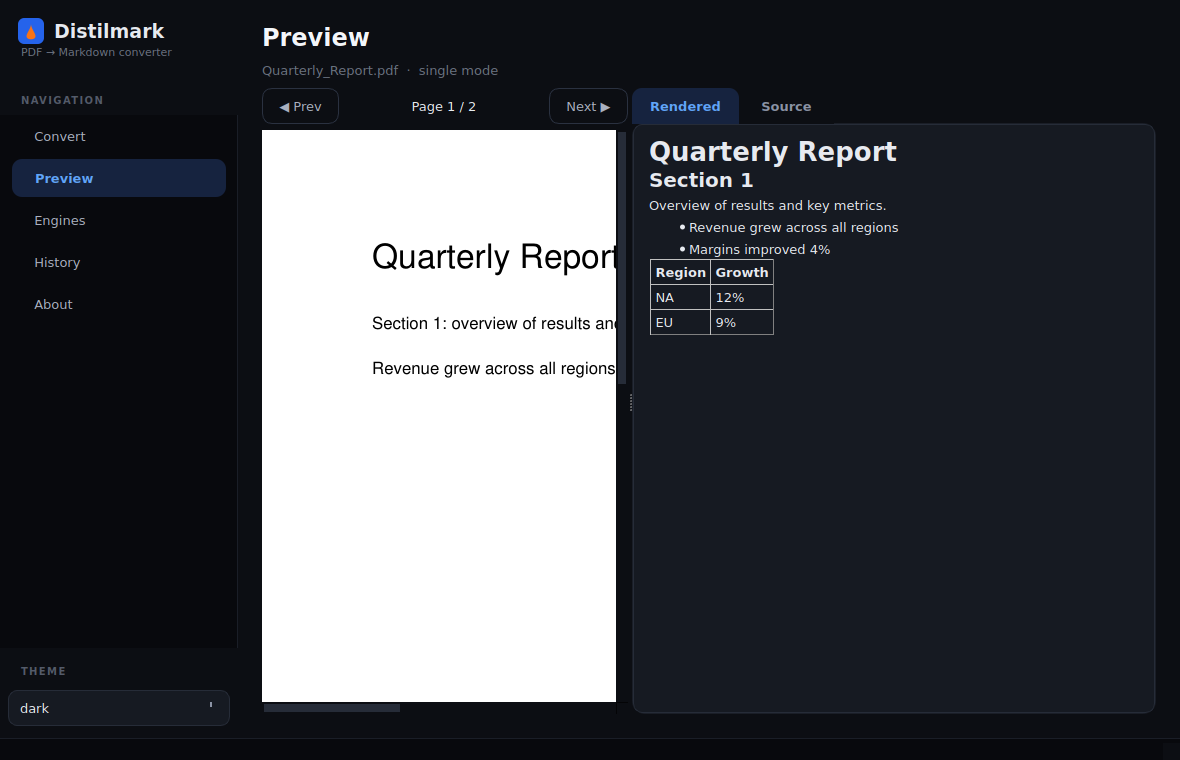
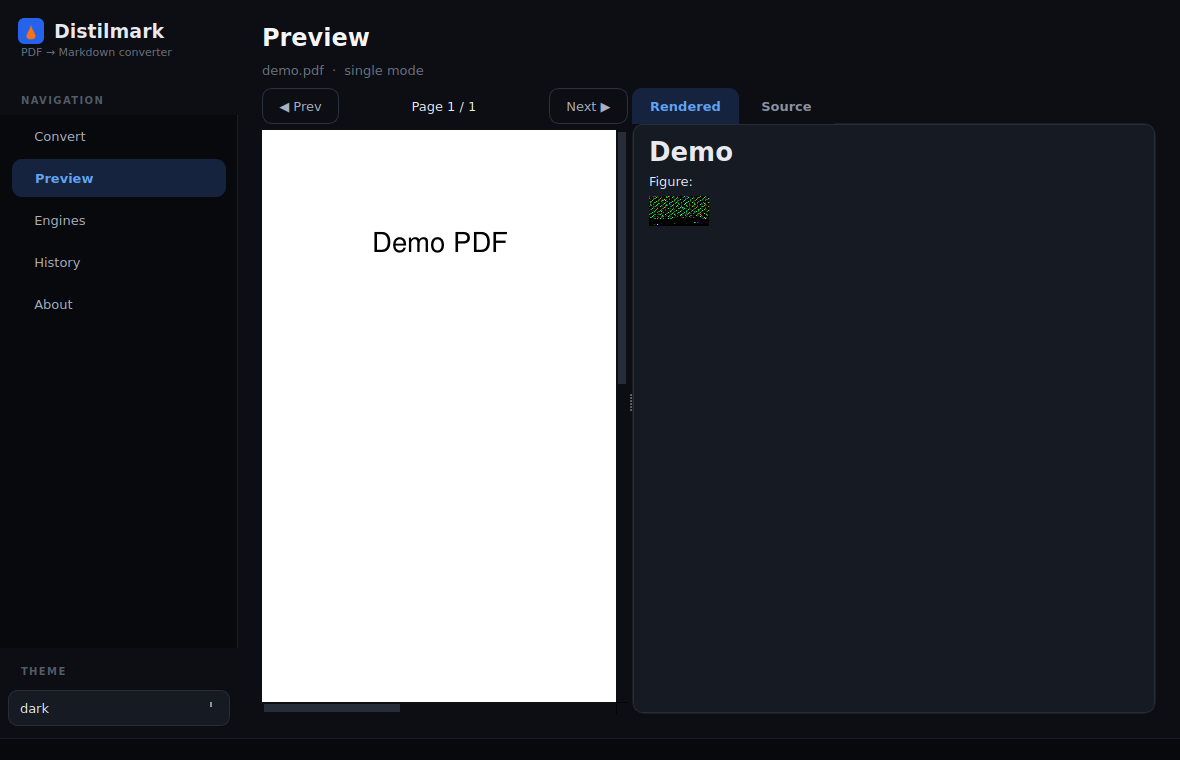
Preview images render, Tesseract install help, advanced-option tooltips
• Preview pane: QTextBrowser was rendering broken-icon placeholders for
  relative image paths (e.g. ./name_images/page1_img1.png) because no
  base URL was set. Centralise rendering through PreviewPage._render_md,
  which sets searchPaths + document baseUrl to the output directory
  before calling setMarkdown — images now display correctly in single
  and compare modes.
• Advanced options: add an "Install Tesseract ↗" button next to the OCR
  checkbox. Clicking it opens a clear, platform-specific guide (Windows
  / macOS / Linux) with one-line install commands and a link to the
  official docs.
• Hover-tooltips on every option in Advanced and the basic Convert
  options (engine, image extraction, page separator, page range,
  estimate, cancel, convert, OCR, OCR language, post-processing flags,
  table extraction + strategies + snap tolerance, LLM concurrency).
• Refresh README screenshots to show the new advanced panel.

https://claude.ai/code/session_01Czo3Yd5iE3p8BnoqPHYmv6

diff --git a/distilmark/app.py b/distilmark/app.py
@@ -6,7 +6,7 @@ import sys
 import traceback
 from pathlib import Path
 
-from PyQt6.QtCore import Qt, QThread, pyqtSignal, QSize
+from PyQt6.QtCore import Qt, QThread, pyqtSignal, QSize, QUrl
 from PyQt6.QtGui import QIcon, QFont, QAction, QPixmap, QPainter, QColor
 from PyQt6.QtWidgets import (
     QApplication,
@@ -359,6 +359,10 @@ class ConvertPage(QWidget):
         self.engine_combo.addItem("OpenAI", "openai")
         self.engine_combo.addItem("Anthropic Claude", "anthropic")
         self.engine_combo.addItem("OpenAI-compatible — Groq · OpenRouter · LM Studio", "openai_compatible")
+        self.engine_combo.setToolTip(
+            "Choose the back-end that turns your PDF into Markdown.\n"
+            "Offline engines run locally and are free; hosted engines call an API."
+        )
         cur = self.cfg.get("engine", "native")
         for i in range(self.engine_combo.count()):
             if self.engine_combo.itemData(i) == cur:
@@ -366,12 +370,21 @@ class ConvertPage(QWidget):
                 break
         opts_layout.addRow("Engine:", self.engine_combo)
 
-        self.images_cb = QCheckBox("Extract embedded images (native engine)")
+        self.images_cb = QCheckBox("Extract embedded images")
         self.images_cb.setChecked(self.cfg.get("include_images", True))
+        self.images_cb.setToolTip(
+            "Save embedded images from the PDF into a sibling folder named "
+            "<stem>_images/ and reference them with relative paths in the "
+            "Markdown, so previews work in VS Code, Obsidian, Typora, etc."
+        )
         opts_layout.addRow("", self.images_cb)
 
         self.sep_cb = QCheckBox("Insert --- between pages")
         self.sep_cb.setChecked(self.cfg.get("page_separator", True))
+        self.sep_cb.setToolTip(
+            "Insert a Markdown horizontal-rule (---) between pages, making "
+            "page boundaries easy to spot in the output."
+        )
         opts_layout.addRow("", self.sep_cb)
 
         # Page range row
@@ -379,9 +392,16 @@ class ConvertPage(QWidget):
         self.range_from = QLineEdit(str(self.cfg.get("page_range_from", "")))
         self.range_from.setPlaceholderText("first")
         self.range_from.setFixedWidth(70)
+        self.range_from.setToolTip(
+            "First page to convert (1-based). Leave blank to start from page 1."
+        )
         self.range_to = QLineEdit(str(self.cfg.get("page_range_to", "")))
         self.range_to.setPlaceholderText("last")
         self.range_to.setFixedWidth(70)
+        self.range_to.setToolTip(
+            "Last page to convert (1-based, inclusive). Leave blank to go to the "
+            "end of the document."
+        )
         range_row.addWidget(QLabel("From"))
         range_row.addWidget(self.range_from)
         range_row.addWidget(QLabel("to"))
@@ -416,16 +436,26 @@ class ConvertPage(QWidget):
         self.estimate_btn = QPushButton("Estimate cost")
         self.estimate_btn.setObjectName("Ghost")
         self.estimate_btn.setCursor(Qt.CursorShape.PointingHandCursor)
+        self.estimate_btn.setToolTip(
+            "Estimate the rough USD cost for hosted LLM engines "
+            "(OpenAI, Anthropic, OpenAI-compatible) before converting. "
+            "Free for offline engines."
+        )
         self.estimate_btn.clicked.connect(self._estimate_cost)
         self.cancel_conv_btn = QPushButton("Cancel")
         self.cancel_conv_btn.setObjectName("Danger")
         self.cancel_conv_btn.setEnabled(False)
         self.cancel_conv_btn.setCursor(Qt.CursorShape.PointingHandCursor)
+        self.cancel_conv_btn.setToolTip(
+            "Stop the current batch. The page in progress finishes first, "
+            "remaining queued files are skipped."
+        )
         self.cancel_conv_btn.clicked.connect(self._cancel_conversion)
         self.convert_btn = QPushButton("Convert  →")
         self.convert_btn.setObjectName("Primary")
         self.convert_btn.setMinimumHeight(40)
         self.convert_btn.setCursor(Qt.CursorShape.PointingHandCursor)
+        self.convert_btn.setToolTip("Start converting every PDF in the queue.")
         self.convert_btn.clicked.connect(self.start_conversion)
         action_row.addWidget(self.estimate_btn)
         action_row.addStretch()
@@ -440,51 +470,154 @@ class ConvertPage(QWidget):
         box = QGroupBox("")
         form = QFormLayout(box)
 
-        # OCR
-        self.ocr_cb = QCheckBox("Enable OCR fallback for scanned pages (needs Tesseract)")
+        # ---- OCR ----
+        self.ocr_cb = QCheckBox("Enable OCR fallback for scanned pages")
         self.ocr_cb.setChecked(self.cfg.get("ocr_enabled", False))
-        form.addRow("OCR:", self.ocr_cb)
+        self.ocr_cb.setToolTip(
+            "When a page has no extractable text (a scanned image or a photo of a "
+            "document), run it through Tesseract OCR to recover the text.\n\n"
+            "Requires Tesseract installed on your system — use the\n"
+            "“Install Tesseract” button on the right for guidance."
+        )
+        ocr_row = QHBoxLayout()
+        ocr_row.addWidget(self.ocr_cb, 1)
+        self.tesseract_btn = QPushButton("Install Tesseract ↗")
+        self.tesseract_btn.setObjectName("Ghost")
+        self.tesseract_btn.setCursor(Qt.CursorShape.PointingHandCursor)
+        self.tesseract_btn.setToolTip(
+            "Open the Tesseract installation guide in your browser."
+        )
+        self.tesseract_btn.clicked.connect(self._show_tesseract_help)
+        ocr_row.addWidget(self.tesseract_btn)
+        form.addRow("OCR:", ocr_row)
+
         self.ocr_lang = QLineEdit(self.cfg.get("ocr_language", "eng"))
         self.ocr_lang.setPlaceholderText("eng, fas, eng+fas, …")
-        self.ocr_lang.setFixedWidth(140)
+        self.ocr_lang.setFixedWidth(180)
+        self.ocr_lang.setToolTip(
+            "Tesseract language code(s). Examples:\n"
+            "  eng        — English (default)\n"
+            "  fas        — Persian / Farsi\n"
+            "  eng+fas    — both, combined\n"
+            "  deu, jpn, chi_sim, ara, rus  — other languages\n\n"
+            "Each language needs its data pack installed alongside Tesseract."
+        )
         form.addRow("OCR language:", self.ocr_lang)
 
-        # Post-processing
+        # ---- Post-processing ----
         self.pp_hyphen_cb = QCheckBox("Merge hyphenated line breaks")
         self.pp_hyphen_cb.setChecked(self.cfg.get("pp_merge_hyphens", False))
+        self.pp_hyphen_cb.setToolTip(
+            "Re-join words split across line breaks with a hyphen.\n"
+            "Example:  “exam-\\nple” → “example”.\n"
+            "Useful for two-column papers and PDFs with tight line wrapping."
+        )
         form.addRow("Clean-up:", self.pp_hyphen_cb)
+
         self.pp_blanks_cb = QCheckBox("Collapse multiple blank lines")
         self.pp_blanks_cb.setChecked(self.cfg.get("pp_collapse_blanks", False))
+        self.pp_blanks_cb.setToolTip(
+            "Replace runs of 3+ consecutive blank lines with a single blank line, "
+            "for a tidier Markdown output."
+        )
         form.addRow("", self.pp_blanks_cb)
+
         self.pp_hf_cb = QCheckBox("Strip repeating headers / footers / page numbers")
         self.pp_hf_cb.setChecked(self.cfg.get("pp_strip_headers_footers", False))
+        self.pp_hf_cb.setToolTip(
+            "Detect the first/last line of each page; when the same text repeats "
+            "across most pages (a running header, footer, or page number), drop "
+            "it from the output. Needs at least 3 pages."
+        )
         form.addRow("", self.pp_hf_cb)
 
-        # pdfplumber table tuning
+        # ---- pdfplumber table tuning ----
         self.tables_cb = QCheckBox("Extract tables (pdfplumber engine)")
         self.tables_cb.setChecked(self.cfg.get("plumber_tables_enabled", True))
+        self.tables_cb.setToolTip(
+            "When using the pdfplumber engine, detect tables on each page and "
+            "convert them to GitHub-flavored Markdown tables.\n"
+            "Disable if pdfplumber is mistakenly turning paragraphs into tables."
+        )
         form.addRow("Tables:", self.tables_cb)
+
         self.vstrat = QComboBox()
         self.vstrat.addItems(["lines", "text", "lines_strict"])
         self.vstrat.setCurrentText(self.cfg.get("plumber_vertical_strategy", "lines"))
+        self.vstrat.setToolTip(
+            "How pdfplumber finds column boundaries inside a table:\n"
+            "  lines         — use ruled vertical lines (best for bordered tables)\n"
+            "  text          — infer from column-aligned text (best for borderless)\n"
+            "  lines_strict  — require explicit lines (avoids false positives)"
+        )
         form.addRow("Table vertical strategy:", self.vstrat)
+
         self.hstrat = QComboBox()
         self.hstrat.addItems(["lines", "text", "lines_strict"])
         self.hstrat.setCurrentText(self.cfg.get("plumber_horizontal_strategy", "lines"))
+        self.hstrat.setToolTip(
+            "How pdfplumber finds row boundaries inside a table. Same options as "
+            "the vertical strategy above. Default ‘lines’ works for most ruled "
+            "tables; switch to ‘text’ for tables with no visible row separators."
+        )
         form.addRow("Table horizontal strategy:", self.hstrat)
+
         self.snap = QSpinBox()
         self.snap.setRange(0, 50)
         self.snap.setValue(int(self.cfg.get("plumber_snap_tolerance", 3)))
+        self.snap.setToolTip(
+            "Pixel distance within which pdfplumber merges nearby table edges. "
+            "Lower (1–2) = stricter, more tables found but more false splits. "
+            "Higher (5–10) = lenient, joins wobbly cell borders. Default: 3."
+        )
         form.addRow("Table snap tolerance:", self.snap)
 
-        # LLM concurrency
+        # ---- LLM concurrency ----
         self.concurrency = QSpinBox()
         self.concurrency.setRange(1, 16)
         self.concurrency.setValue(int(self.cfg.get("llm_concurrency", 1)))
-        self.concurrency.setToolTip("Pages processed in parallel for hosted LLM engines (OpenAI/Anthropic/compatible).")
+        self.concurrency.setToolTip(
+            "How many pages to process in parallel for hosted LLM engines\n"
+            "(OpenAI, Anthropic, OpenAI-compatible).\n\n"
+            "  1   = sequential, safest\n"
+            "  4   = ~4× faster on most providers\n"
+            "  8+  = may hit provider rate limits — back off if requests fail"
+        )
         form.addRow("LLM parallel pages:", self.concurrency)
 
         return box
+
+    def _show_tesseract_help(self):
+        from PyQt6.QtGui import QDesktopServices
+        box = QMessageBox(self)
+        box.setIcon(QMessageBox.Icon.Information)
+        box.setWindowTitle("Install Tesseract for OCR")
+        box.setTextFormat(Qt.TextFormat.RichText)
+        box.setText(
+            "<b>Tesseract</b> is the OCR engine that turns scanned/image-only PDF "
+            "pages into searchable text. Install it once on your system, then "
+            "enable OCR fallback here."
+        )
+        box.setInformativeText(
+            "<b>Windows</b><br>"
+            "Download the official installer:<br>"
+            "&nbsp;&nbsp;<a href='https://github.com/UB-Mannheim/tesseract/wiki'>"
+            "github.com/UB-Mannheim/tesseract/wiki</a><br>"
+            "During install, tick extra <b>language packs</b> you need "
+            "(e.g. Persian = <code>fas</code>).<br><br>"
+            "<b>macOS</b> &nbsp; <code>brew install tesseract tesseract-lang</code><br>"
+            "<b>Ubuntu / Debian</b> &nbsp; <code>sudo apt install tesseract-ocr tesseract-ocr-fas</code><br>"
+            "<b>Fedora</b> &nbsp; <code>sudo dnf install tesseract tesseract-langpack-fas</code><br><br>"
+            "<a href='https://tesseract-ocr.github.io/tessdoc/Installation.html'>"
+            "Full installation docs ↗</a>"
+        )
+        open_btn = box.addButton("Open Tesseract site", QMessageBox.ButtonRole.AcceptRole)
+        box.addButton("Close", QMessageBox.ButtonRole.RejectRole)
+        box.exec()
+        if box.clickedButton() is open_btn:
+            QDesktopServices.openUrl(
+                QUrl("https://tesseract-ocr.github.io/tessdoc/Installation.html")
+            )
 
     def _toggle_advanced(self, checked: bool):
         self.adv_box.setVisible(checked)
@@ -1264,14 +1397,25 @@ class PreviewPage(QWidget):
         self._render_pdf_page()
         self._build_tabs(data)
 
+    @staticmethod
+    def _render_md(browser: QTextBrowser, md: str, output_path: str | None) -> None:
+        """Render markdown with the right base URL so relative image paths
+        (e.g. ``./name_images/page1_img1.png``) resolve to real files."""
+        if output_path:
+            base = Path(output_path).parent
+            browser.setSearchPaths([str(base)])
+            browser.document().setBaseUrl(QUrl.fromLocalFile(str(base) + "/"))
+        browser.setOpenExternalLinks(True)
+        browser.setMarkdown(md)
+
     def _build_tabs(self, data: dict):
         self.tabs.clear()
         if data.get("compare"):
             nb = QTextBrowser()
-            nb.setMarkdown(data.get("md_native", ""))
+            self._render_md(nb, data.get("md_native", ""), data.get("output_native"))
             self.tabs.addTab(nb, "⚡ Native")
             pb = QTextBrowser()
-            pb.setMarkdown(data.get("md_pdfplumber", ""))
+            self._render_md(pb, data.get("md_pdfplumber", ""), data.get("output_pdfplumber"))
             self.tabs.addTab(pb, "📐 pdfplumber")
             diff = QTextBrowser()
             diff.setHtml(self._make_diff(
@@ -1280,7 +1424,7 @@ class PreviewPage(QWidget):
             self.tabs.addTab(diff, "≠ Diff")
         else:
             rendered = QTextBrowser()
-            rendered.setMarkdown(data.get("md", ""))
+            self._render_md(rendered, data.get("md", ""), data.get("output"))
             self.tabs.addTab(rendered, "Rendered")
             src = QPlainTextEdit()
             src.setPlainText(data.get("md", ""))